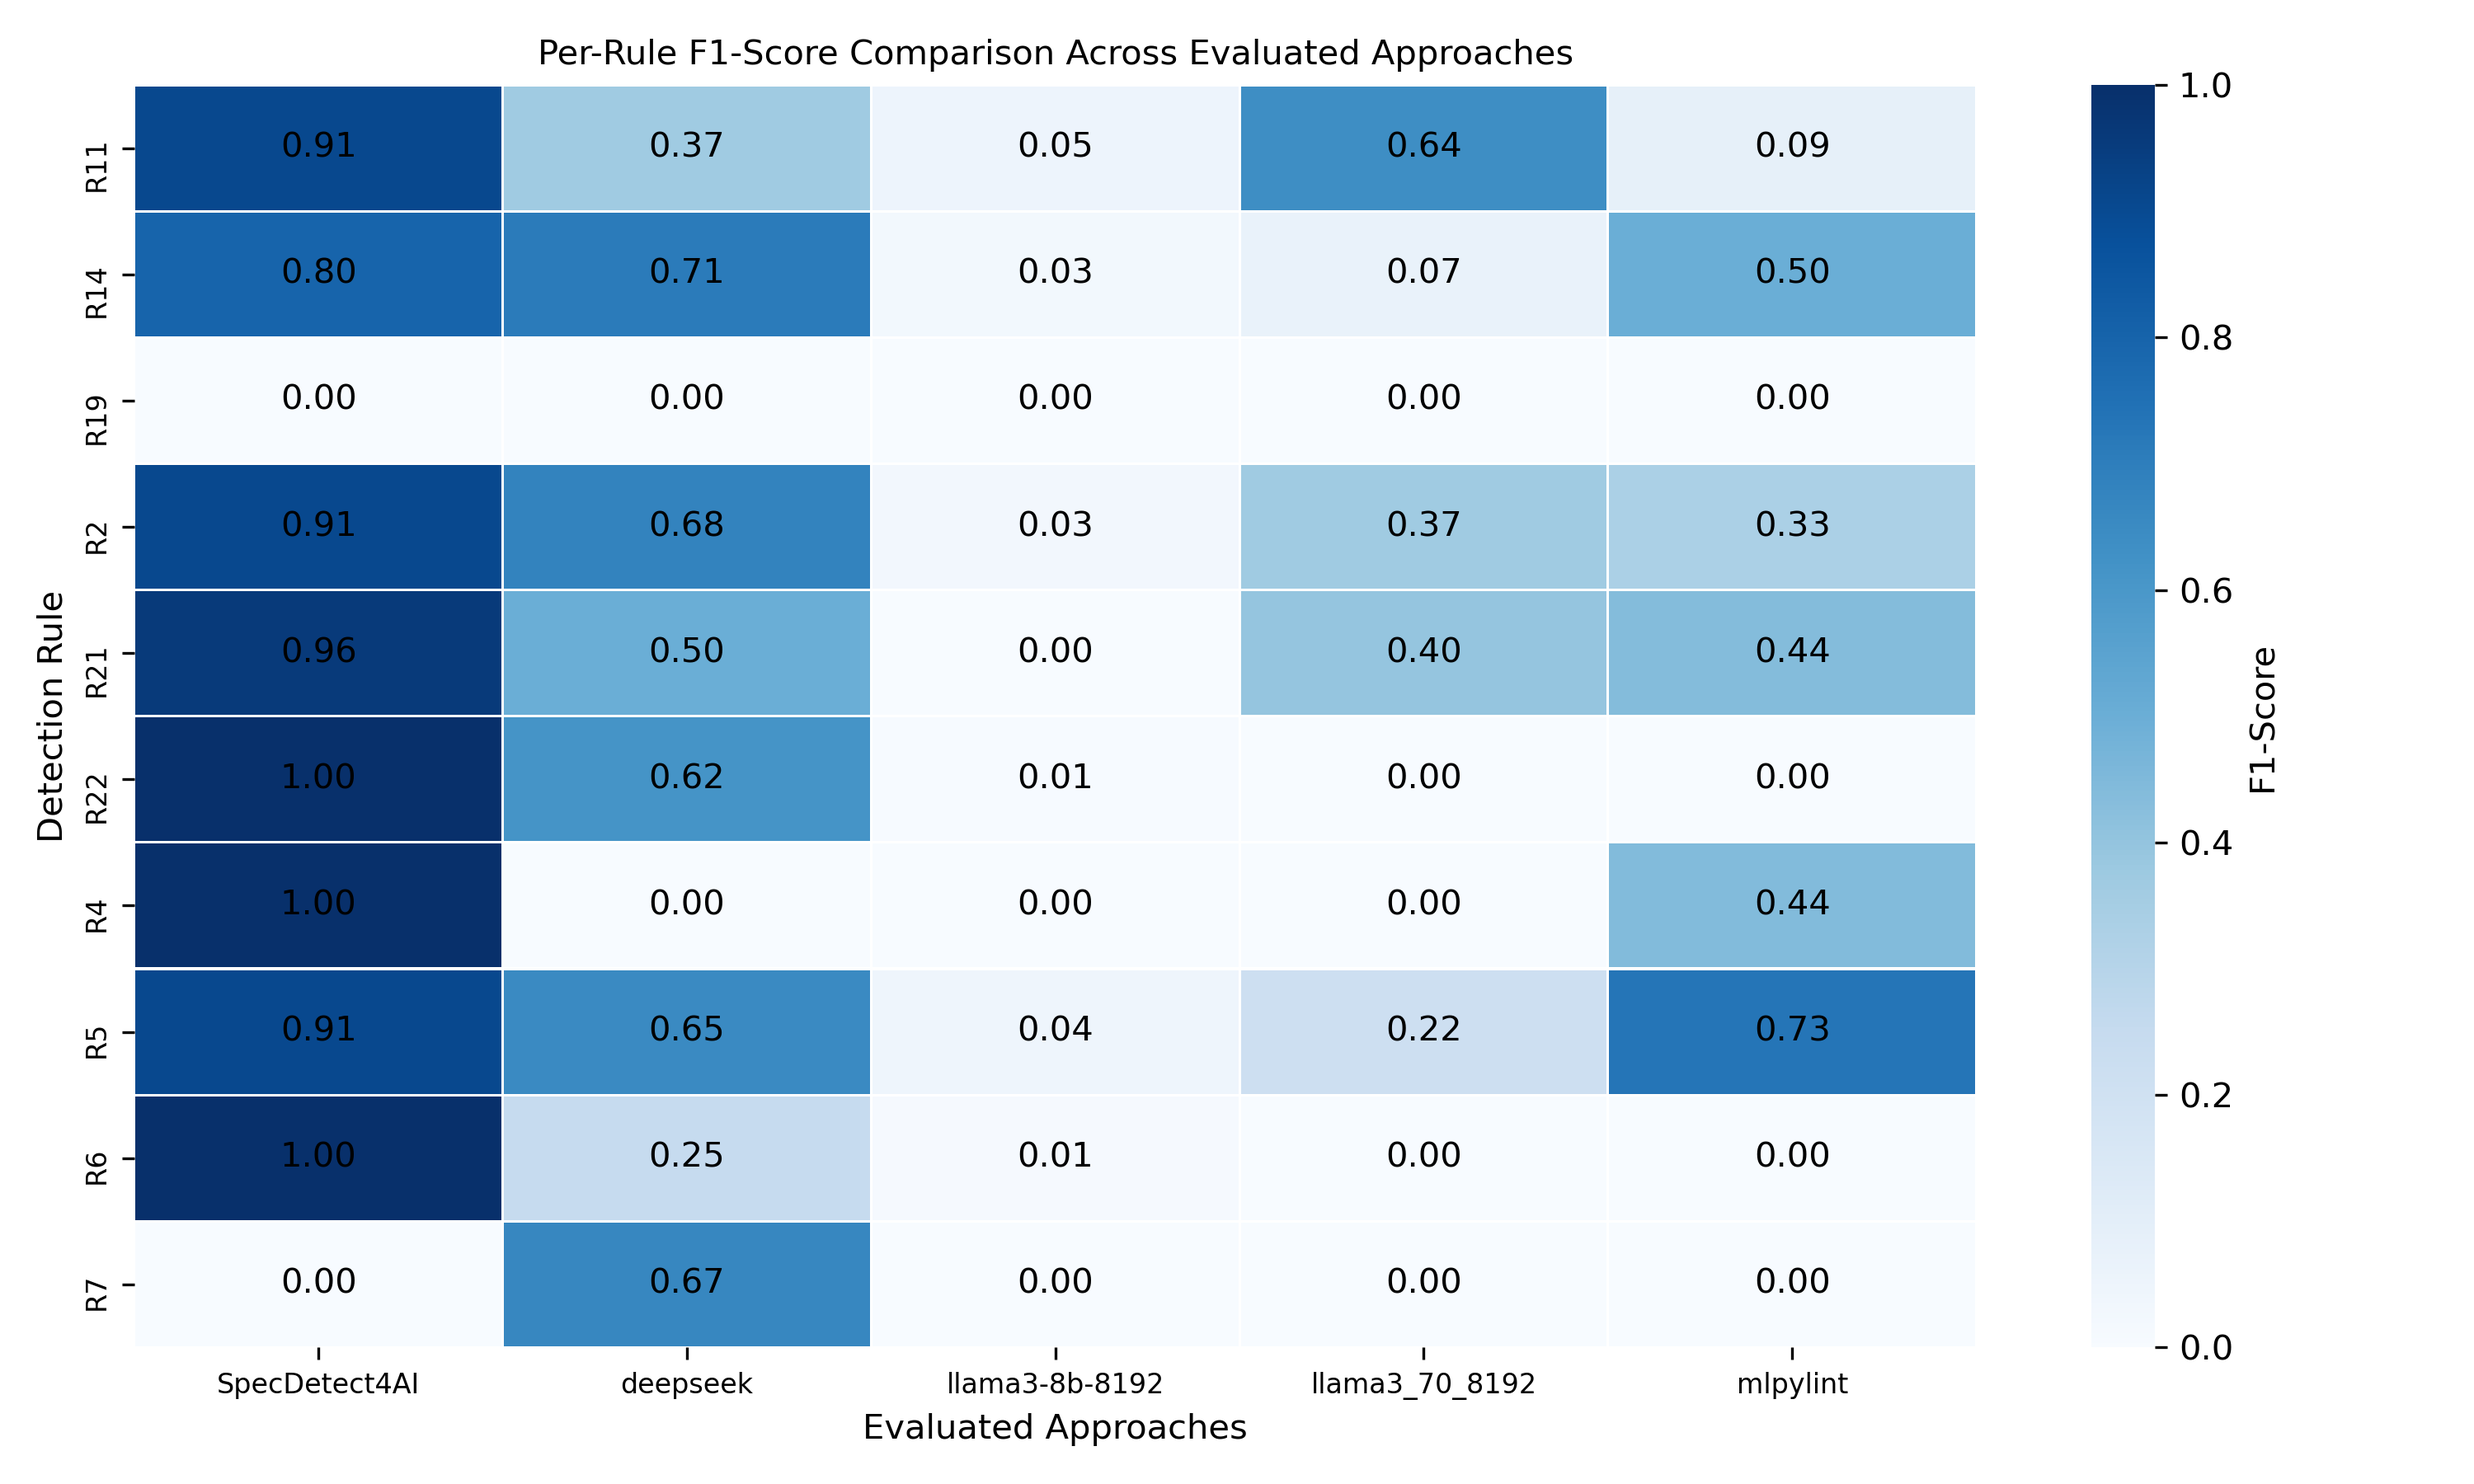
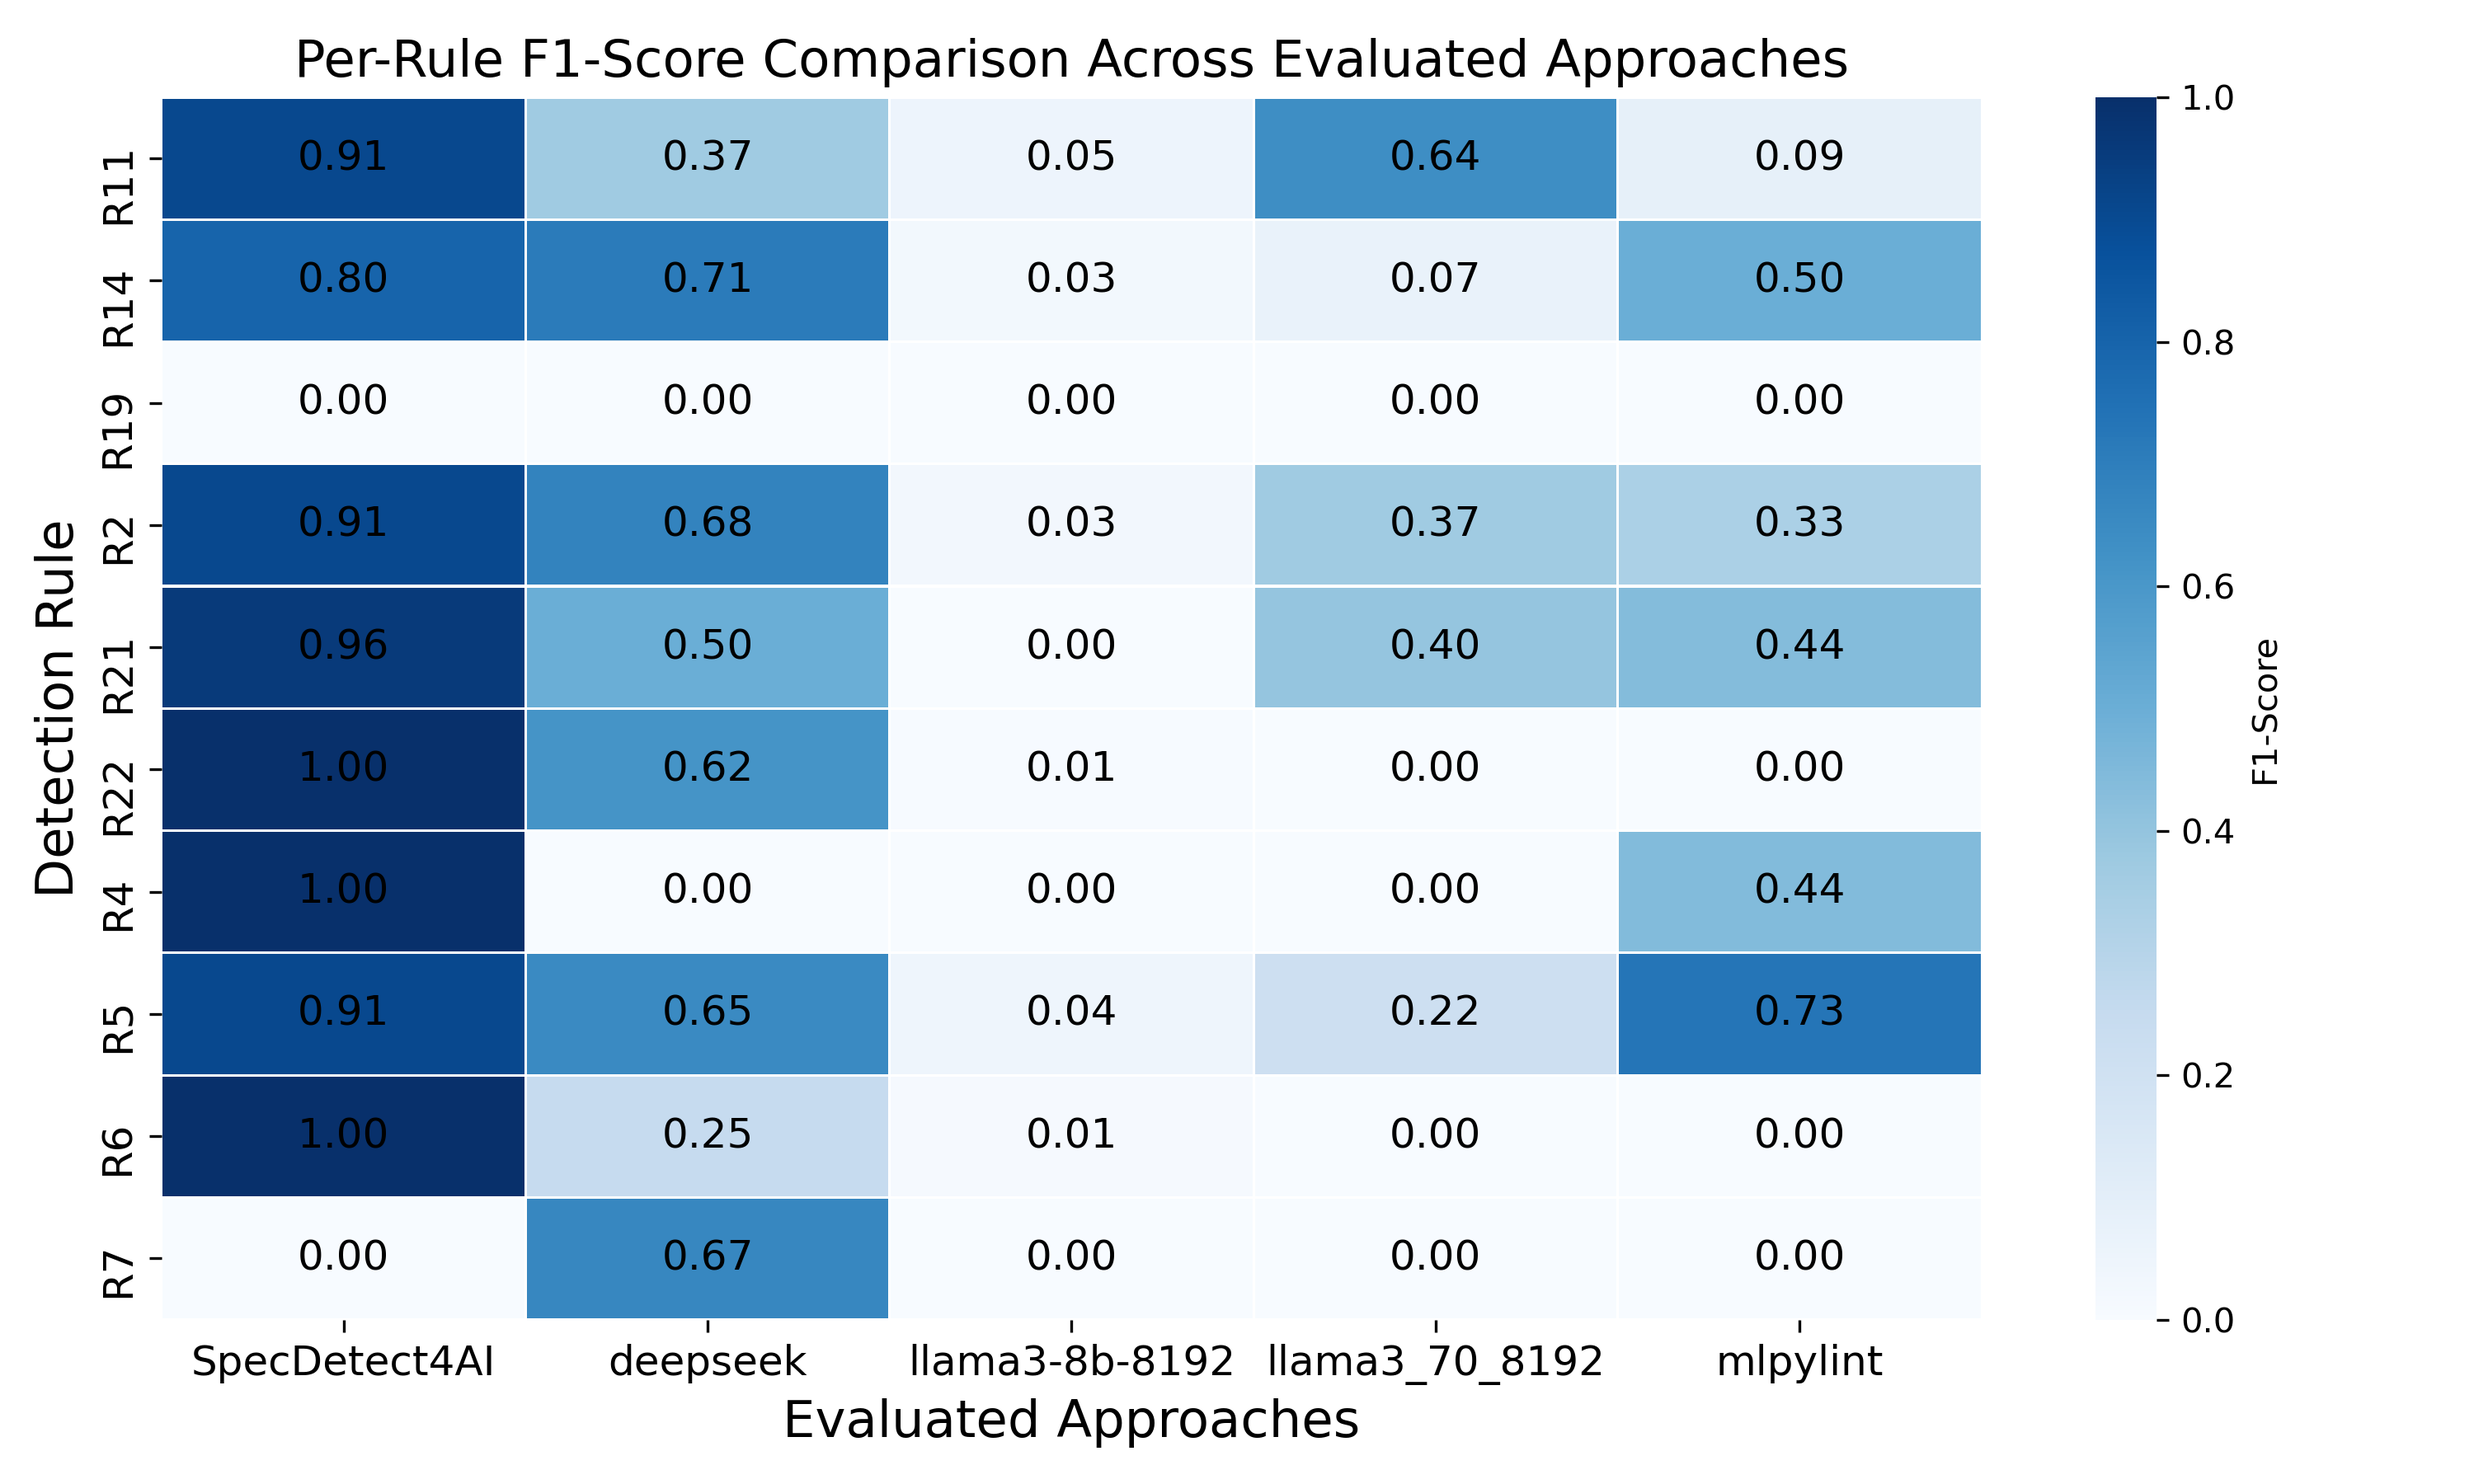
d

diff --git a/Evaluation/Figures_Precision/heatmap_per_rule.py b/Evaluation/Figures_Precision/heatmap_per_rule.py
@@ -3,7 +3,7 @@ import seaborn as sns
 import matplotlib.pyplot as plt
 
 # Load data
-data = pd.read_csv('Spec4AI/Evaluation/Figures_Precision/precision_recall_par_regle_et_outil.csv')
+data = pd.read_csv('precision_recall_par_regle_et_outil.csv')
 
 # List of rules to display
 selected_rules = ["R5", "R11", "R21", "R22", "R2", "R14", "R6", "R4", "R19", "R7"]
@@ -33,14 +33,14 @@ sns.heatmap(
     fmt="", 
     cmap='Blues',
     cbar_kws={'label': 'F1-Score'},
-    annot_kws={"size": 10, "color": "black"},
+    annot_kws={"size": 12, "color": "black"},
     linewidths=0.5
 )
-plt.title('Per-Rule F1-Score Comparison Across Evaluated Approaches', fontsize=10)
-plt.xlabel('Evaluated Approaches', fontsize=10)
-plt.ylabel('Detection Rule', fontsize=10)
-plt.xticks(fontsize=8)
-plt.yticks(fontsize=8)
+plt.title('Per-Rule F1-Score Comparison Across Evaluated Approaches', fontsize=15)
+plt.xlabel('Evaluated Approaches', fontsize=15)
+plt.ylabel('Detection Rule', fontsize=15)
+plt.xticks(fontsize=12)
+plt.yticks(fontsize=12)
 plt.tight_layout()
 plt.savefig("f1score_heatmap_rules_tools.png", dpi=300)
 plt.show()
